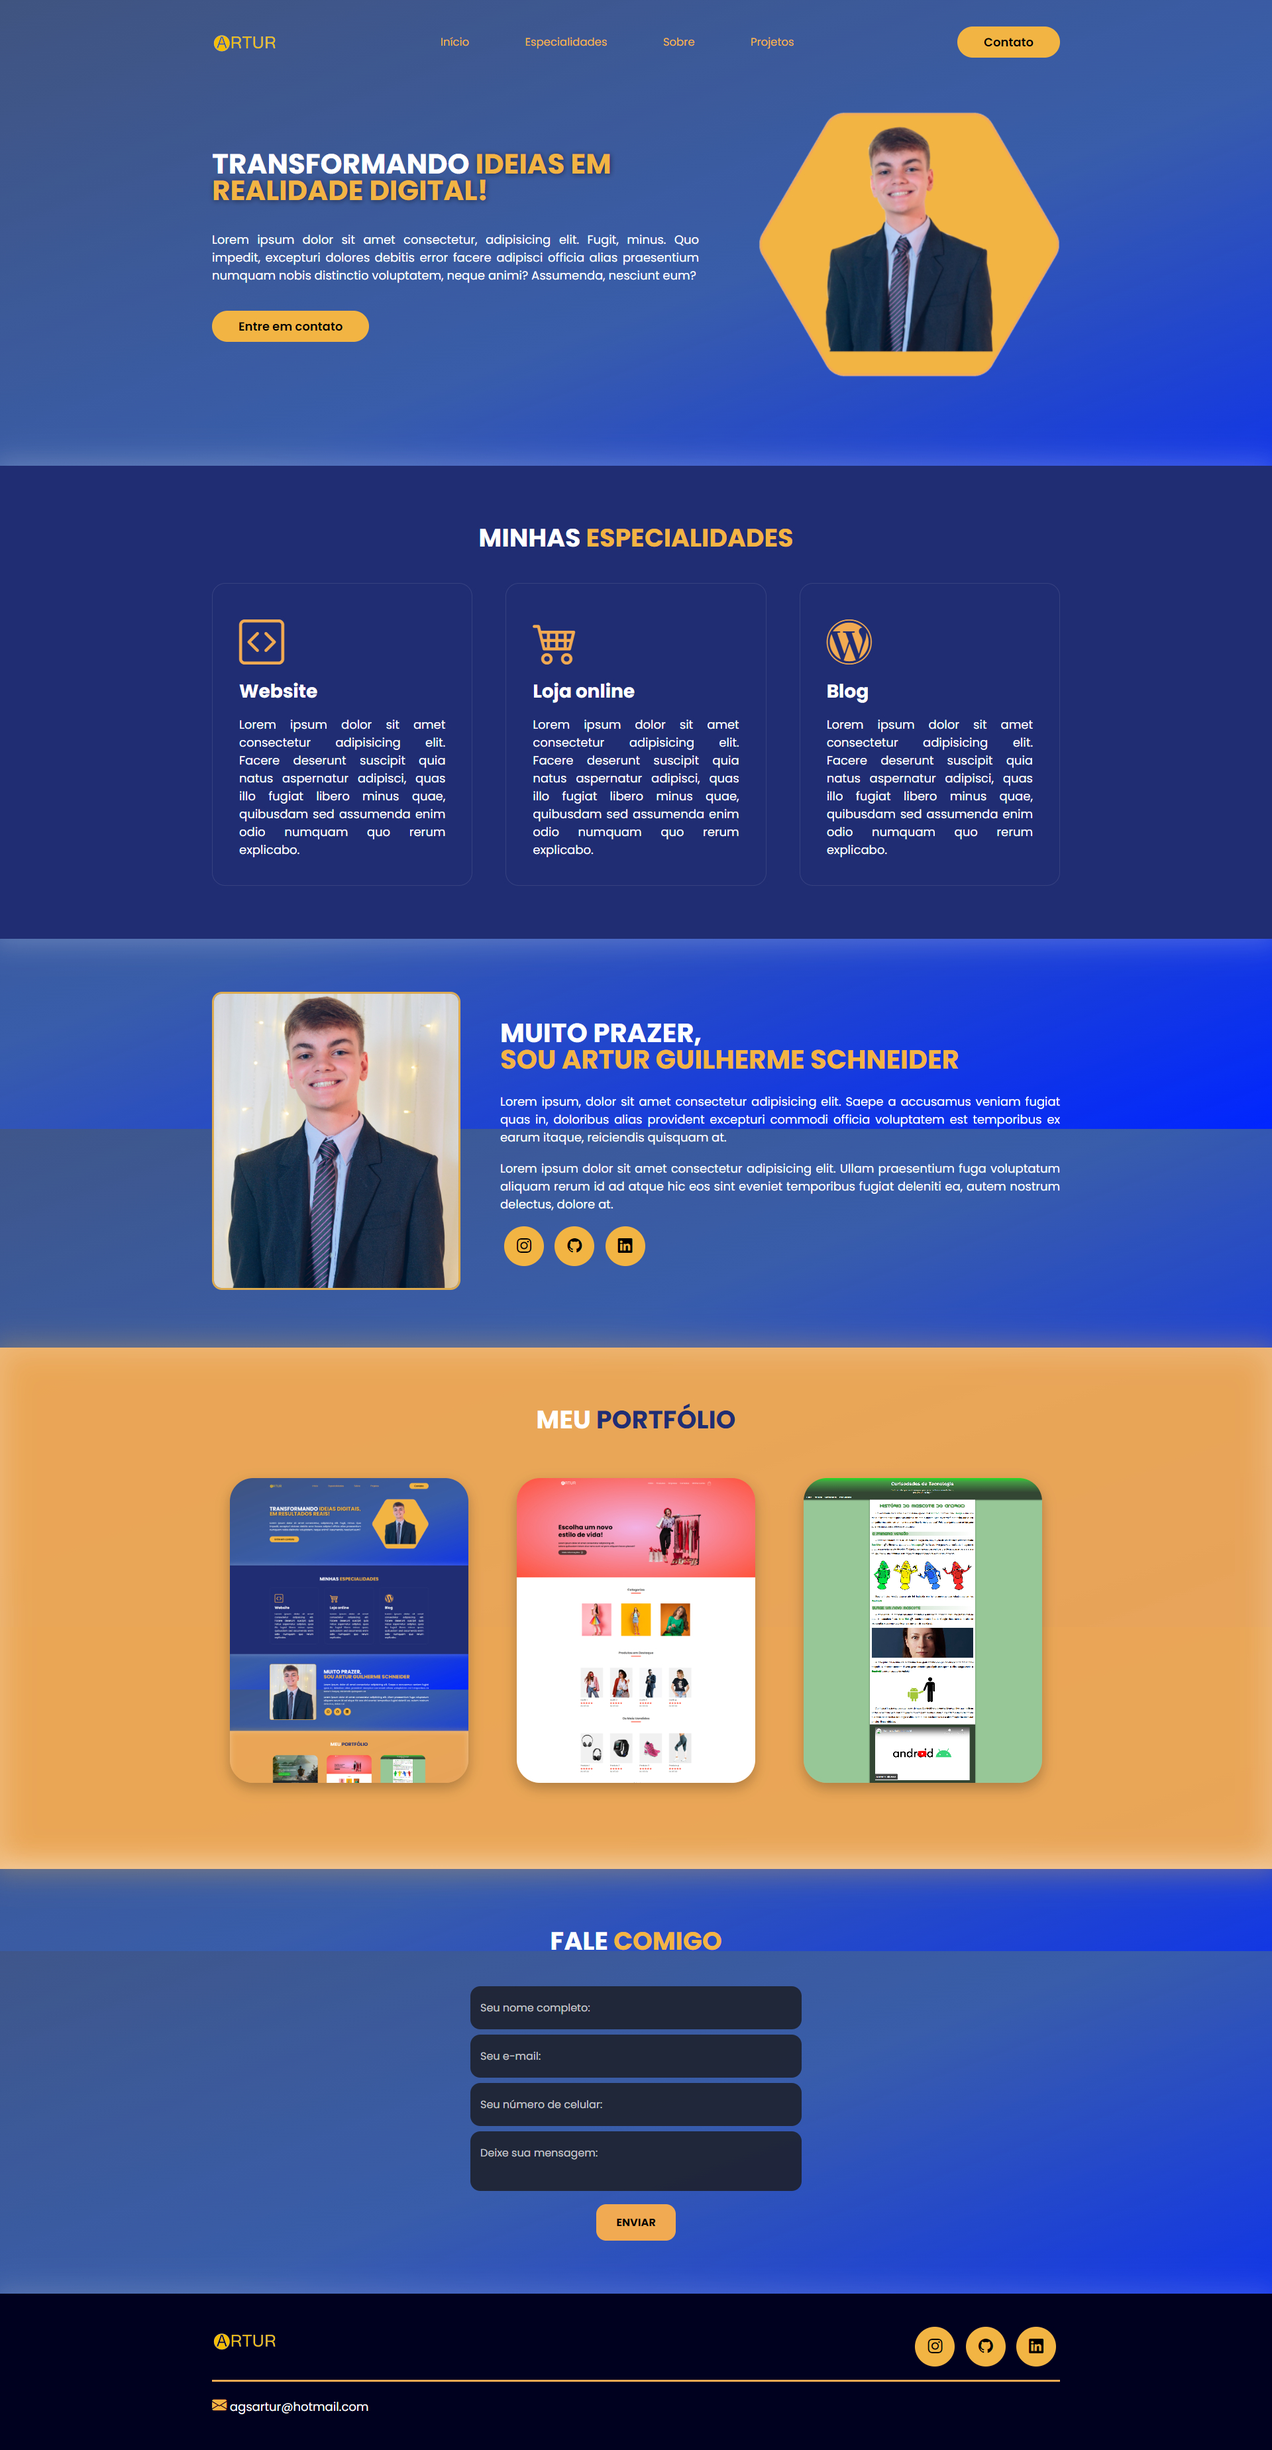
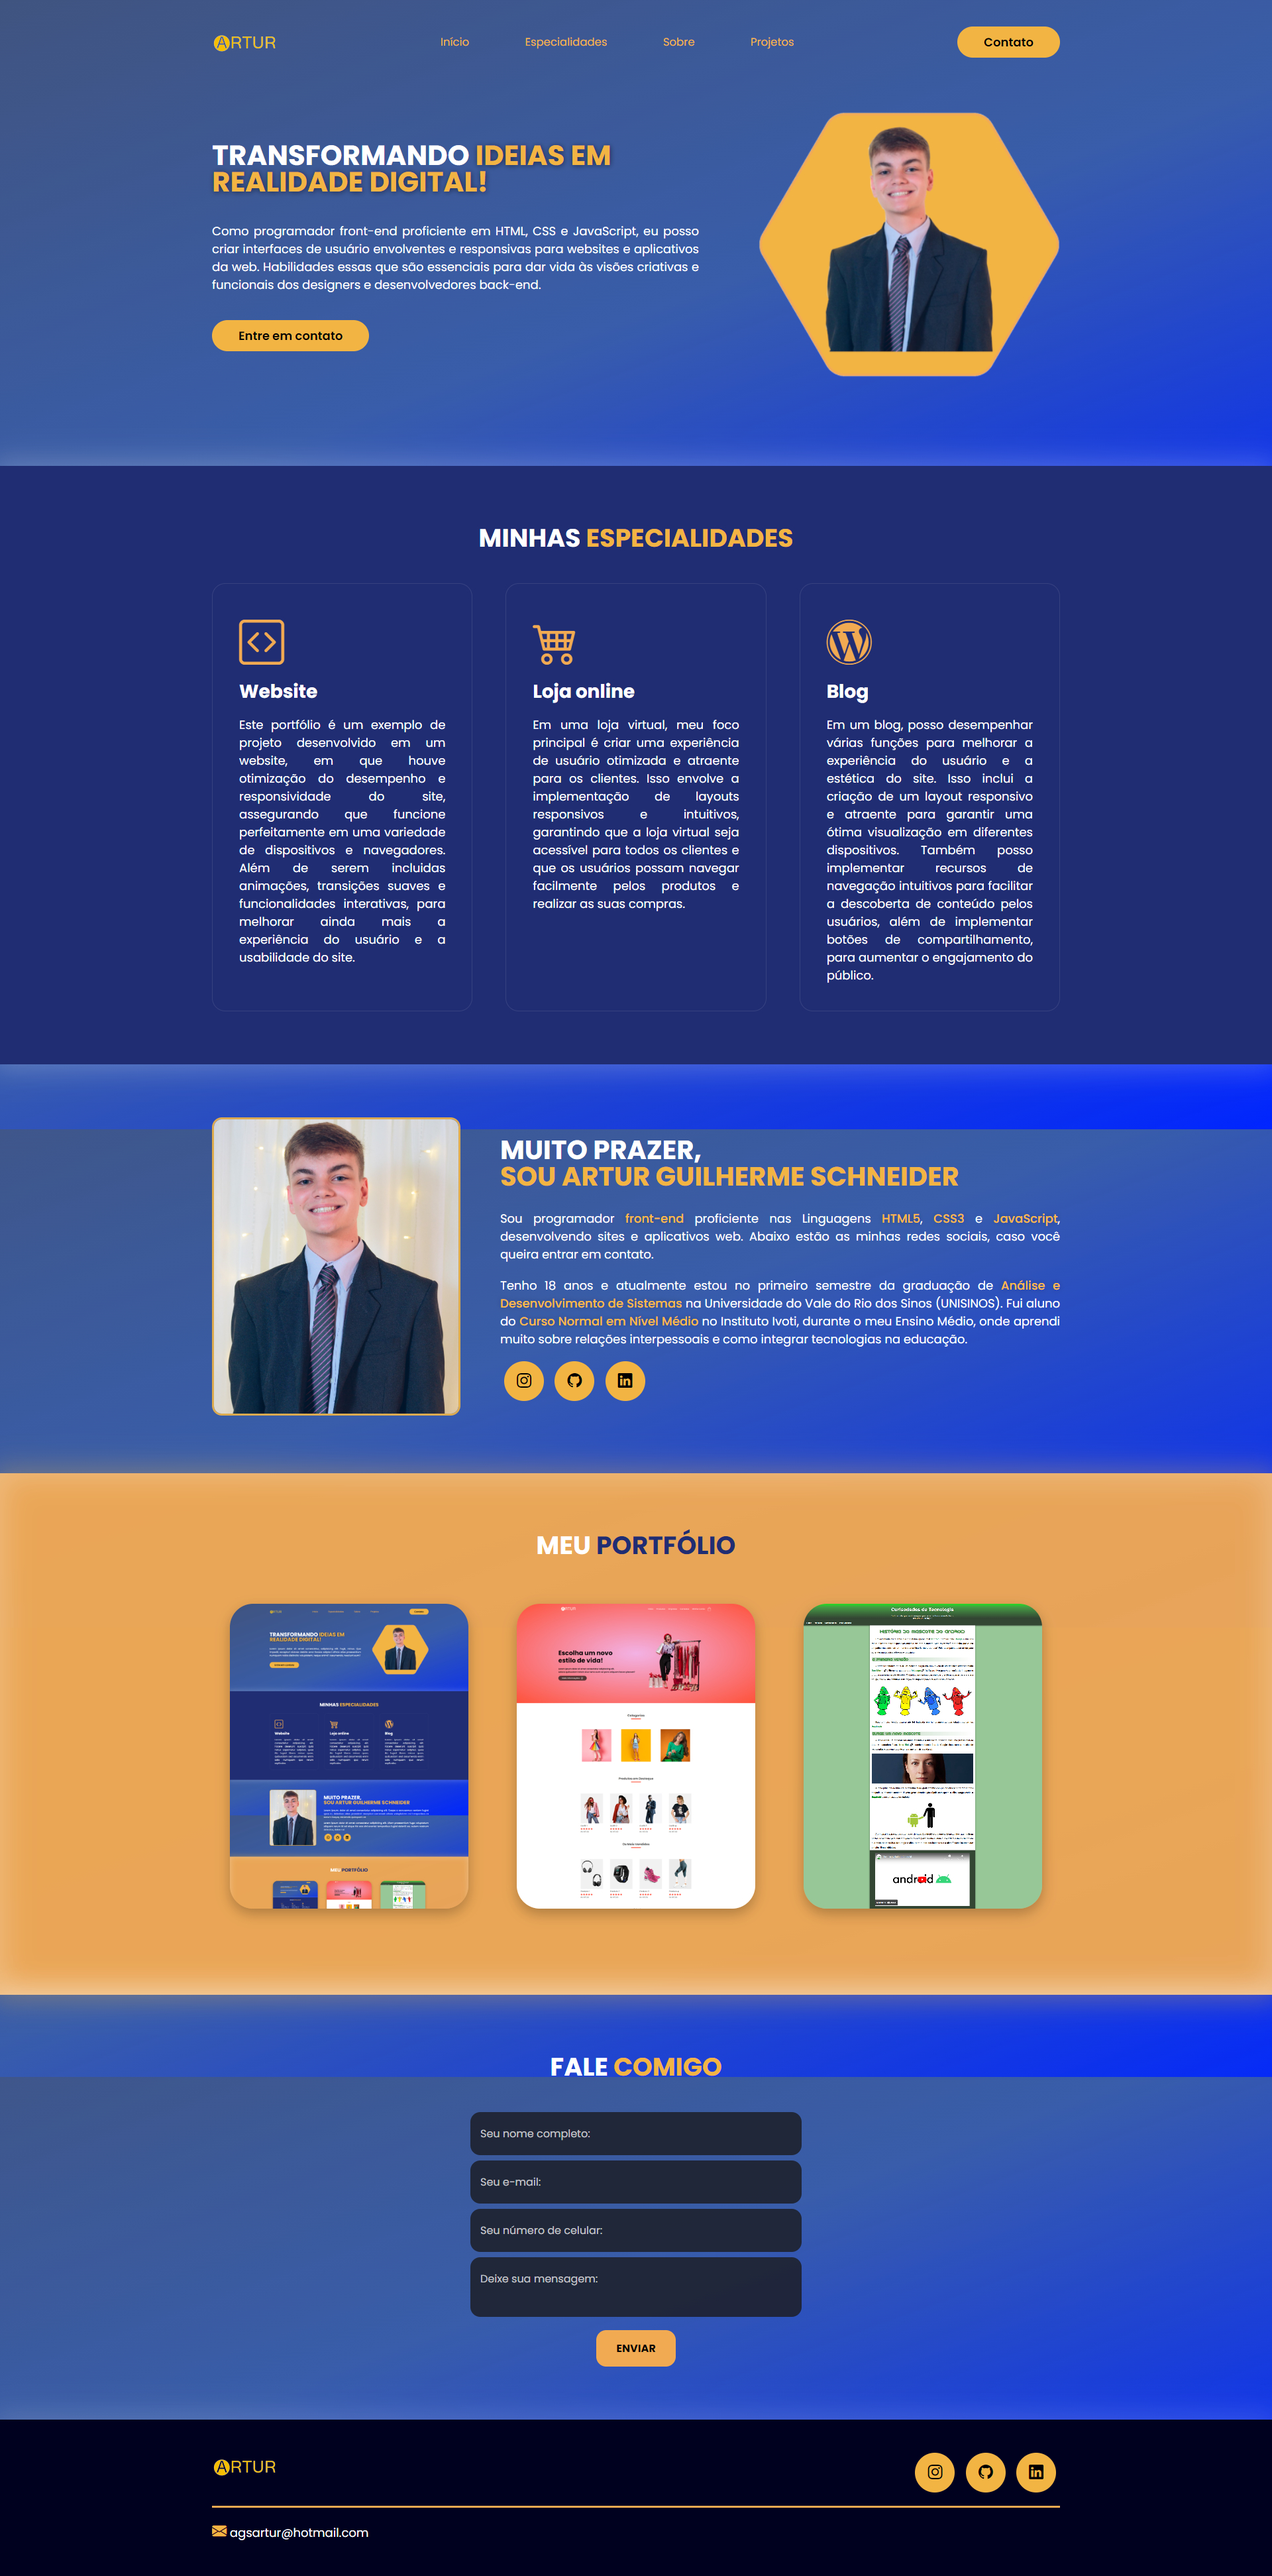
Textos finalizados

diff --git a/index.html b/index.html
@@ -60,7 +60,7 @@
                 <div class="flex">
                     <div class="txt-topo-site">
                         <h1>TRANSFORMANDO <span id="digit"></span></h1>
-                        <p>Lorem ipsum dolor sit amet consectetur, adipisicing elit. Fugit, minus. Quo impedit, excepturi dolores debitis error facere adipisci officia alias praesentium numquam nobis distinctio voluptatem, neque animi? Assumenda, nesciunt eum?</p>
+                        <p>Como programador front-end proficiente em HTML, CSS e JavaScript, eu posso criar interfaces de usuário envolventes e responsivas para websites e aplicativos da web. Habilidades essas que são essenciais para dar vida às visões criativas e funcionais dos designers e desenvolvedores back-end.</p>
                         <div class="contato">
                             <a href="#secao4">
                                 <button>
@@ -84,17 +84,17 @@
                     <div class="especialidades-box">
                         <i class="bi bi-code-square"></i>
                         <h3>Website</h3>
-                        <p>Lorem ipsum dolor sit amet consectetur adipisicing elit. Facere deserunt suscipit quia natus aspernatur adipisci, quas illo fugiat libero minus quae, quibusdam sed assumenda enim odio numquam quo rerum explicabo.</p>
+                        <p>Este portfólio é um exemplo de projeto desenvolvido em um website, em que houve otimização do desempenho e responsividade do site, assegurando que funcione perfeitamente em uma variedade de dispositivos e navegadores. Além de serem incluidas animações, transições suaves e funcionalidades interativas, para melhorar ainda mais a experiência do usuário e a usabilidade do site.</p>
                     </div> <!--especialidades-box-->
                     <div class="especialidades-box">
                         <i class="bi bi-cart4"></i>
                         <h3>Loja online</h3>
-                        <p>Lorem ipsum dolor sit amet consectetur adipisicing elit. Facere deserunt suscipit quia natus aspernatur adipisci, quas illo fugiat libero minus quae, quibusdam sed assumenda enim odio numquam quo rerum explicabo.</p>
+                        <p>Em uma loja virtual, meu foco principal é criar uma experiência de usuário otimizada e atraente para os clientes. Isso envolve a implementação de layouts responsivos e intuitivos, garantindo que a loja virtual seja acessível para todos os clientes e que os usuários possam navegar facilmente pelos produtos e realizar as suas compras.</p>
                     </div> <!--especialidades-box-->
                     <div class="especialidades-box">
                         <i class="bi bi-wordpress"></i>
                         <h3>Blog</h3>
-                        <p>Lorem ipsum dolor sit amet consectetur adipisicing elit. Facere deserunt suscipit quia natus aspernatur adipisci, quas illo fugiat libero minus quae, quibusdam sed assumenda enim odio numquam quo rerum explicabo.</p>
+                        <p>Em um blog, posso desempenhar várias funções para melhorar a experiência do usuário e a estética do site. Isso inclui a criação de um layout responsivo e atraente para garantir uma ótima visualização em diferentes dispositivos. Também posso implementar recursos de navegação intuitivos para facilitar a descoberta de conteúdo pelos usuários, além de implementar botões de compartilhamento, para aumentar o engajamento do público.</p>
                     </div> <!--especialidades-box-->
                 </div> <!--flex-->
             </div> <!--interface-->
@@ -109,8 +109,8 @@
                     
                     <div class="txt-sobre">
                         <h2>MUITO PRAZER, <span>SOU ARTUR GUILHERME SCHNEIDER</span></h2>
-                        <p>Lorem ipsum, dolor sit amet consectetur adipisicing elit. Saepe a accusamus veniam fugiat quas in, doloribus alias provident excepturi commodi officia voluptatem est temporibus ex earum itaque, reiciendis quisquam at.</p>
-                        <p>Lorem ipsum dolor sit amet consectetur adipisicing elit. Ullam praesentium fuga voluptatum aliquam rerum id ad atque hic eos sint eveniet temporibus fugiat deleniti ea, autem nostrum delectus, dolore at.</p>
+                        <p>Sou programador <span>front-end</span> proficiente nas Linguagens <span>HTML5</span>, <span>CSS3</span> e <span>JavaScript</span>, desenvolvendo sites e aplicativos web. Abaixo estão as minhas redes sociais, caso você queira entrar em contato.</p>
+                        <p>Tenho 18 anos e atualmente estou no primeiro semestre da graduação de <span>Análise e Desenvolvimento de Sistemas</span> na Universidade do Vale do Rio dos Sinos (UNISINOS). Fui aluno do <span>Curso Normal em Nível Médio</span> no Instituto Ivoti, durante o meu Ensino Médio, onde aprendi muito sobre relações interpessoais e como integrar tecnologias na educação.</p>
                         <div class="btn-social">
                             <a href="https://www.instagram.com/artur.schneiderz/" target="_blank" rel="external"><button><i class="bi bi-instagram"></i></button></a>
                             <a href="https://github.com/Artur-Schneider" target="_blank" rel="external"><button><i class="bi bi-github"></i></button></a>

diff --git a/style.css b/style.css
@@ -248,6 +248,7 @@ section.especialidades .flex {
     border: 0.5px solid rgba(245, 245, 245, 0.103);
     margin-top: 40px;
     transition: .2s;
+    width: 100%;
 }
 
 .especialidades .especialidades-box:hover {
@@ -287,6 +288,12 @@ section.sobre .flex {
 
 .sobre .txt-sobre {
     color: white;
+}
+
+.sobre .txt-sobre p span {
+    color: #ffbc3f;
+    font-weight: 500;
+    text-shadow: 0px 0px 8px rgba(0, 0, 0, 0.253);
 }
 
 .sobre .txt-sobre h2 {
